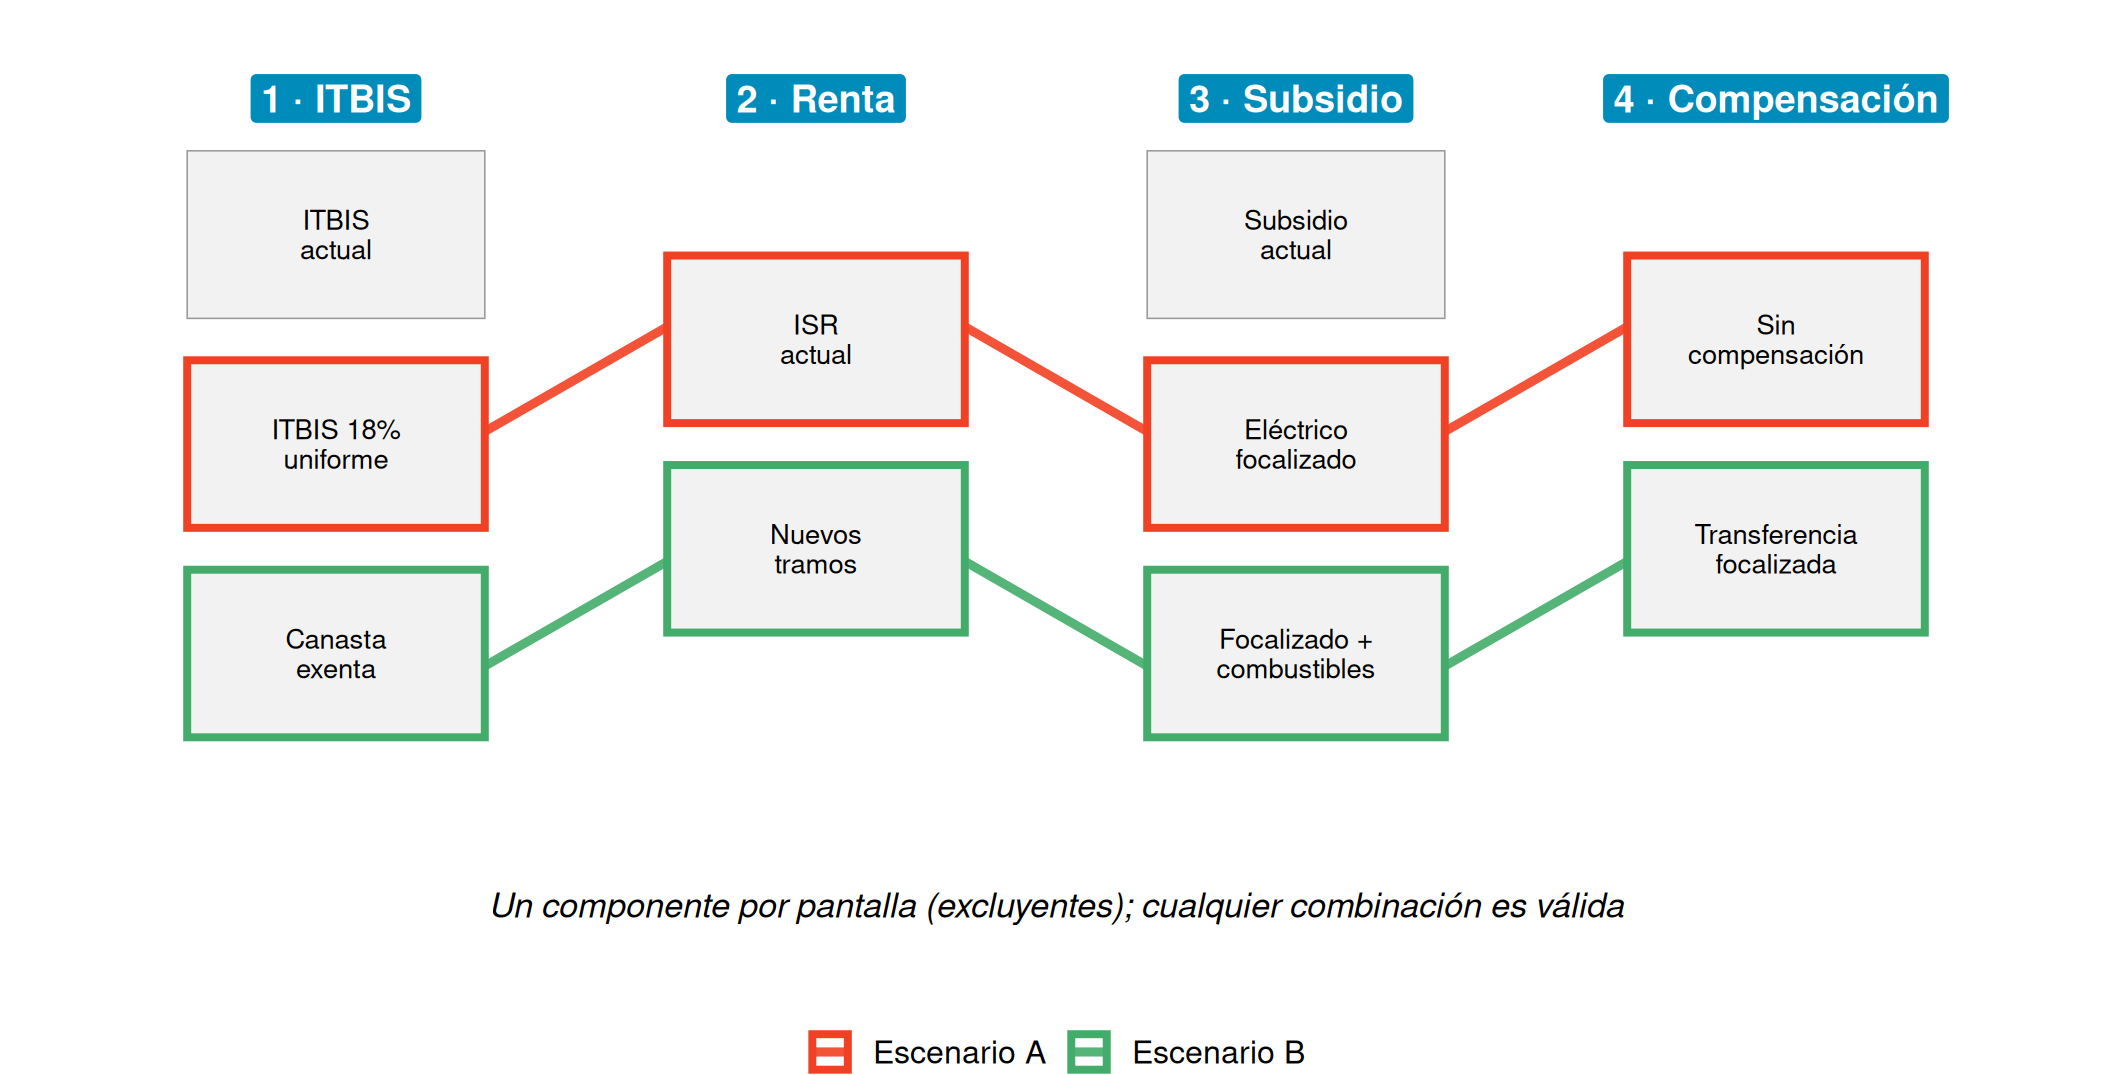
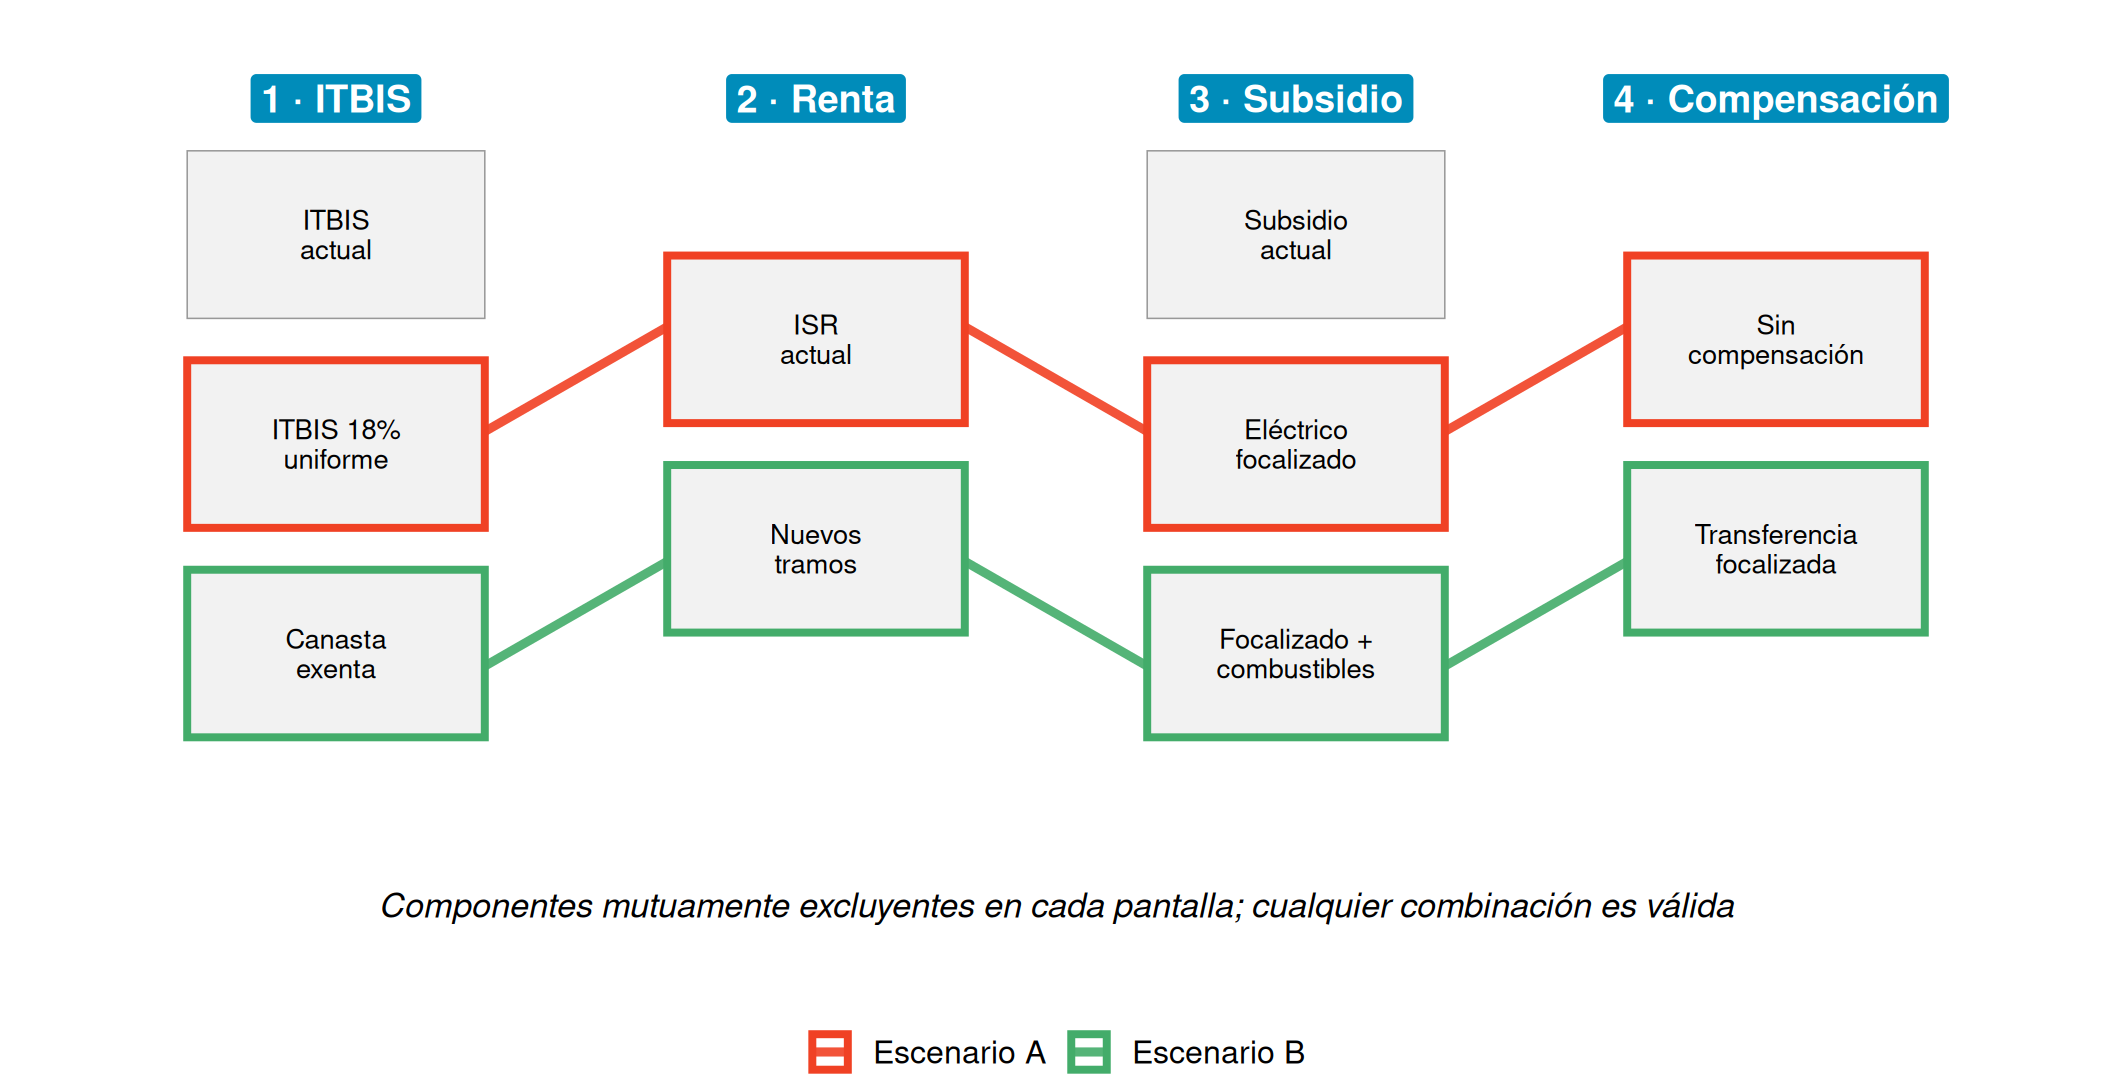
Frases sobre componentes alineadas con la idea central; el aviso de combustibles en Instructivo nombra el módulo y la pantalla

Changed region(s): [[0.1875, 0.8288, 0.8438, 0.8595]]

diff --git a/docs/instructivo.html b/docs/instructivo.html
@@ -360,7 +360,7 @@ Tip
 <h2 class="anchored" data-anchor-id="resumen">Resumen</h2>
 <ol type="1">
 <li>Cada pantalla (1 a 4) produce <strong>componentes</strong> guardados: sus decisiones de política.</li>
-<li>En <strong>Revisar</strong> se elige <strong>un componente por pantalla</strong> para formar un escenario.</li>
+<li>En <strong>Revisar</strong> se forma cada escenario como una <strong>combinación de componentes</strong>: uno de cada pantalla, porque los de una misma pantalla son mutuamente excluyentes.</li>
 <li>En <strong>Simular</strong> se ejecutan los escenarios y se comparan (hasta cuatro).</li>
 </ol>
 <p>Si la app no arranca, vea las indicaciones de la <a href="./index.html#requisitos-e-instalación">página principal</a> o el <a href="https://youtu.be/jXF6b9S3hiI">vídeo de instrucciones</a>.</p>
